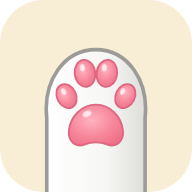
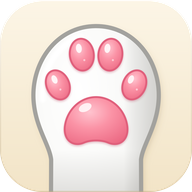
아이곁 아이콘: 보내준 고양이 발 그림을 입체감 있게 다시 그림
Claude-Session: https://claude.ai/code/session_01WkgYNgwZtdqEQwYQ11b8B6

diff --git a/aigyeot/kakao.js b/aigyeot/kakao.js
@@ -22,7 +22,7 @@
     d.id = 'agOut';
     d.style.cssText = 'position:fixed;inset:0;z-index:9999;background:#FBF7F2;display:flex;flex-direction:column;align-items:center;justify-content:center;padding:28px;text-align:center;font-family:inherit;color:#2D2A26';
     var how = isIOS ? '오른쪽 아래 <b>공유(⋯)</b> → <b>Safari로 열기</b>' : '오른쪽 아래(위) <b>⋮</b> → <b>다른 브라우저로 열기</b>';
-    d.innerHTML = '<img src="./icon-192.png" width="84" height="84" style="border-radius:22px;margin-bottom:14px" alt="">' +
+    d.innerHTML = '<img src="./icon-192.png?v=3" width="84" height="84" style="border-radius:22px;margin-bottom:14px" alt="">' +
       '<div style="font-size:20px;font-weight:800;margin-bottom:8px">' + (isIOS ? 'Safari' : '크롬') + '에서 열어 설치해 주세요</div>' +
       '<div style="font-size:14.5px;line-height:1.7;color:#7A726A">' + (inKakao ? '카카오톡' : '이 앱') + ' 안에서는 앱을 설치할 수 없어요.<br>' + (inKakao || isAndroid ? '아래 버튼이 안 되면 ' : '') + how + '를 눌러 주세요.</div>' +
       '<button id="agOutGo" style="margin-top:20px;width:100%;max-width:320px;border:0;border-radius:14px;padding:15px;background:#2D2A26;color:#fff;font-weight:800;font-size:16px">' + (isIOS ? 'Safari' : '크롬') + '로 열기</button>' +

diff --git a/aigyeot/index.html b/aigyeot/index.html
@@ -5,14 +5,14 @@
 <meta name="viewport" content="width=device-width, initial-scale=1, maximum-scale=1">
 <meta name="theme-color" content="#FBF7F2">
 <script src="kakao.js?v=1"></script>
-<link rel="manifest" href="manifest.webmanifest?v=2">
-<link rel="apple-touch-icon" href="apple-touch-icon.png?v=2">
+<link rel="manifest" href="manifest.webmanifest?v=3">
+<link rel="apple-touch-icon" href="apple-touch-icon.png?v=3">
 <meta name="apple-mobile-web-app-capable" content="yes">
 <meta name="apple-mobile-web-app-title" content="아이곁">
 <meta name="description" content="아픈 강아지·고양이 케어 기록. 급여량 계산, 투약·수액·증상 기록, 병원 요약을 가족과 함께.">
 <meta property="og:title" content="아이곁 — 아픈 아이 케어 기록">
 <meta property="og:description" content="가족이 함께 쓰는 반려동물 케어 기록">
-<link rel="icon" href="icon-192.png?v=2">
+<link rel="icon" href="icon-192.png?v=3">
 <title>아이곁 — 아픈 아이 케어 기록</title>
 <link rel="preconnect" href="https://fonts.googleapis.com">
 <link href="https://fonts.googleapis.com/css2?family=Noto+Sans+KR:wght@400;500;700&display=swap" rel="stylesheet">

diff --git a/aigyeot/sw.js b/aigyeot/sw.js
@@ -1,5 +1,5 @@
 // 아이곁 서비스워커: 화면 파일만 보관(인터넷 끊겨도 열리게). 기록 저장소(supabase) 요청은 건드리지 않음.
-const CACHE = 'aigyeot-v2';
+const CACHE = 'aigyeot-v3';
 const SHELL = ['./', './index.html', './kakao.js', './manifest.webmanifest', './icon-192.png'];
 self.addEventListener('install', e => { e.waitUntil(caches.open(CACHE).then(c => c.addAll(SHELL)).then(() => self.skipWaiting())); });
 self.addEventListener('activate', e => { e.waitUntil(caches.keys().then(ks => Promise.all(ks.filter(k => k !== CACHE).map(k => caches.delete(k)))).then(() => self.clients.claim())); });
